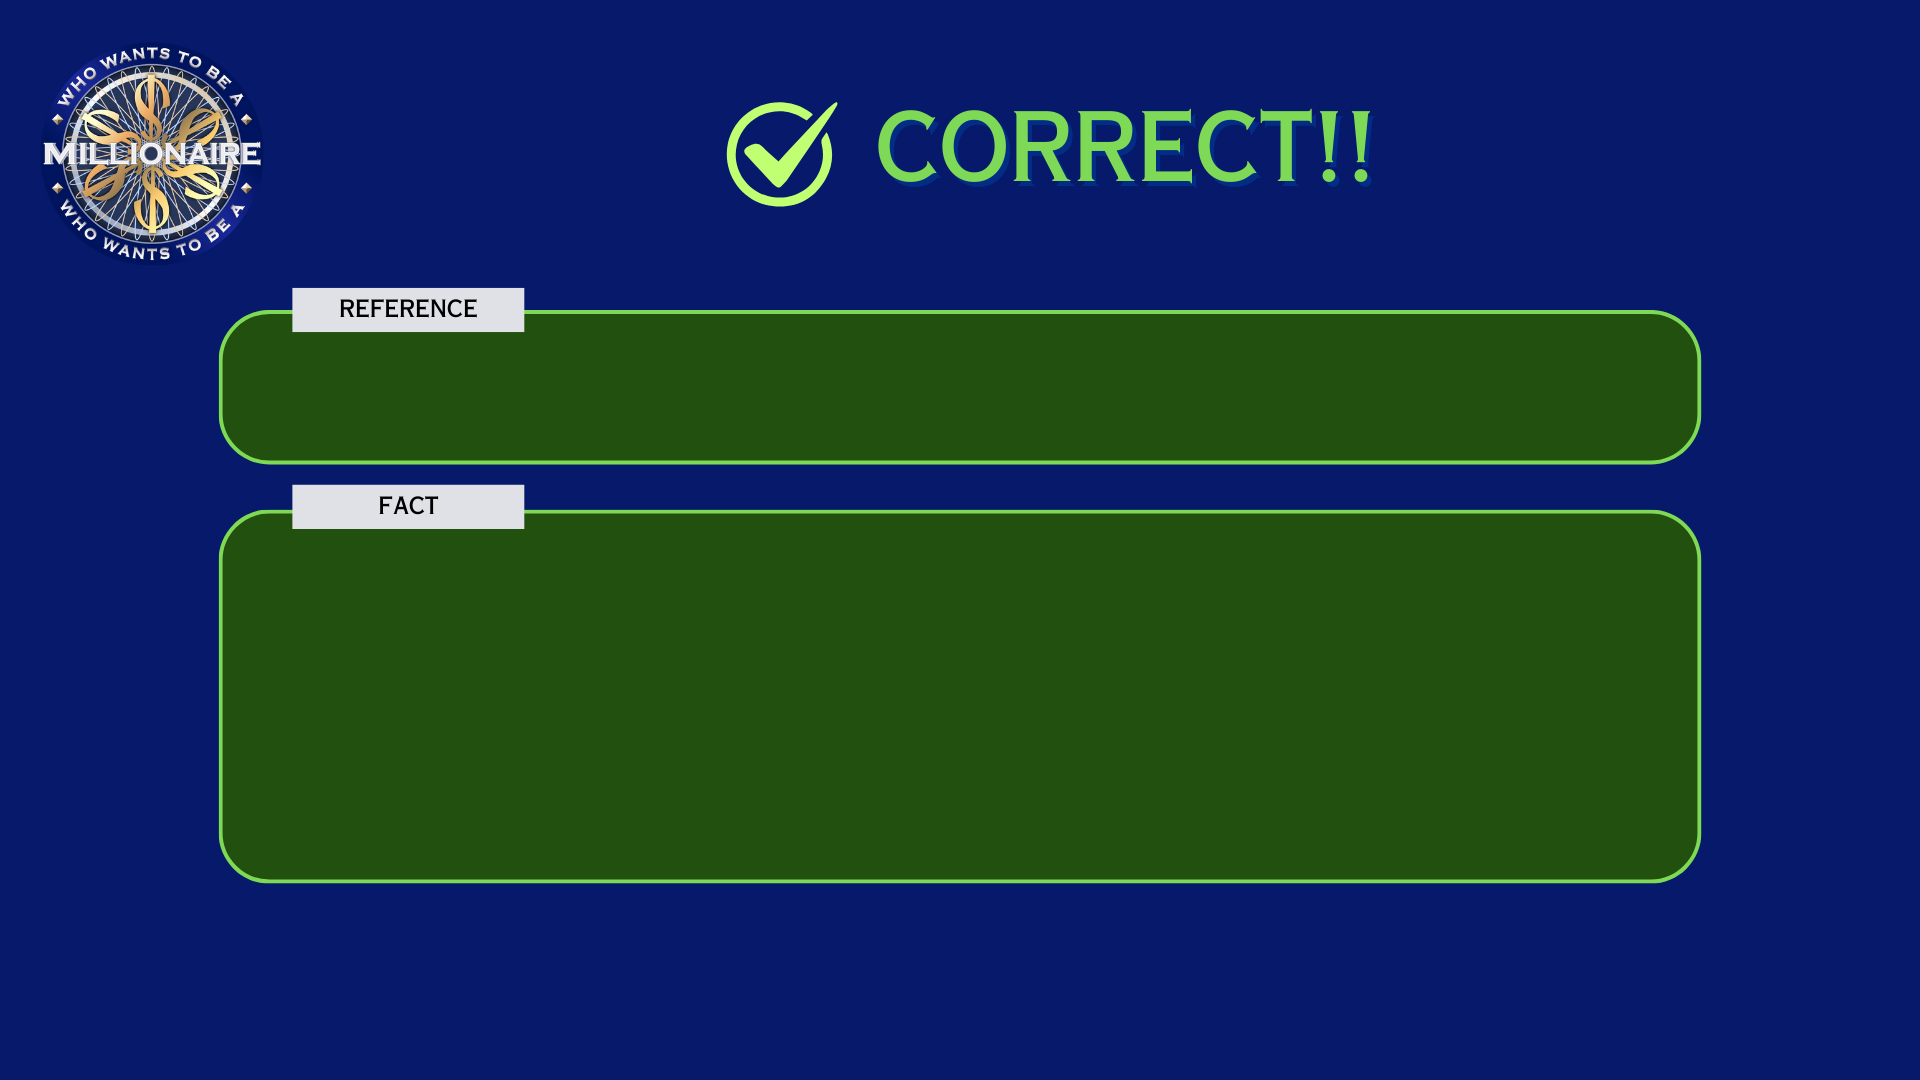
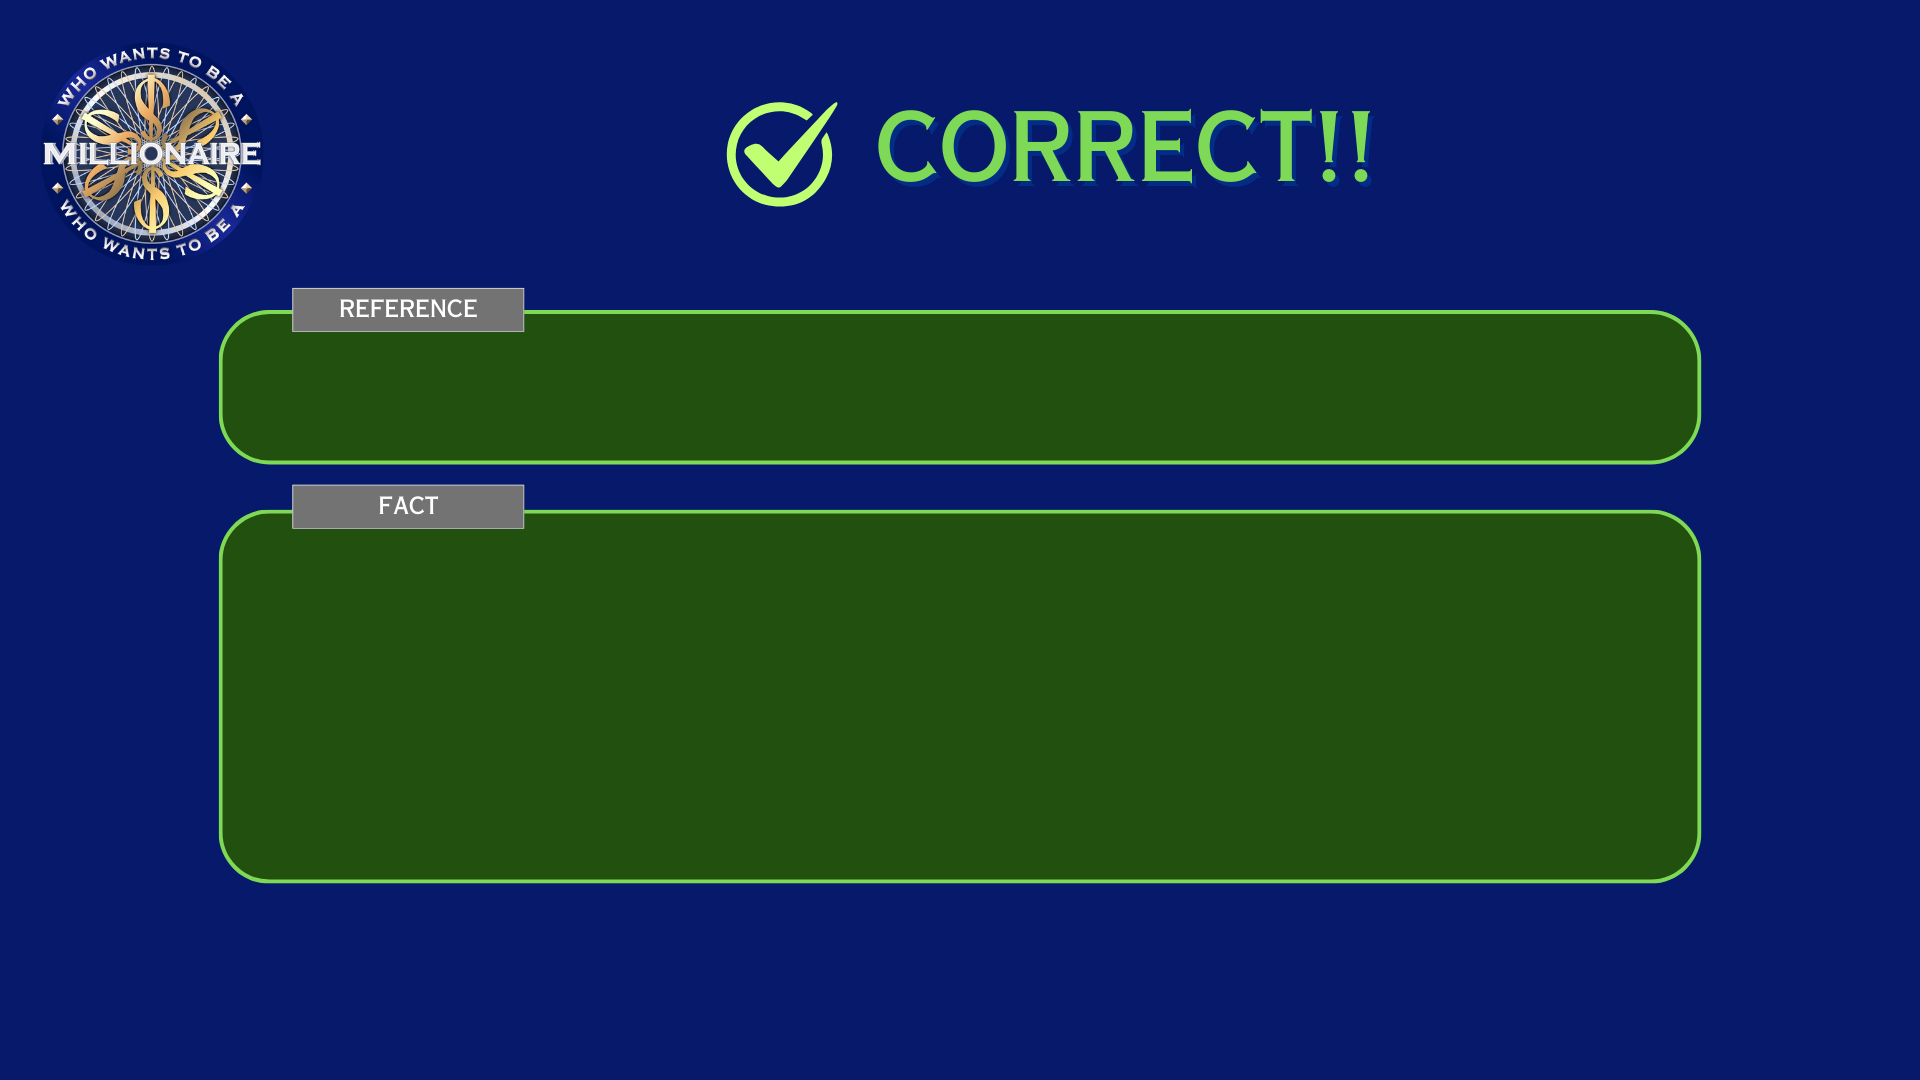
fact & thanks page

Changed region(s): [[0.125, 0.4278, 0.2812, 0.4889], [0.125, 0.2444, 0.2812, 0.3056]]

diff --git a/src/app/thank-you/page.tsx b/src/app/thank-you/page.tsx
@@ -8,13 +8,7 @@ import { LeaderBoards } from "@/lib/model";
 
 export default function ThankYou() {
   const router = useRouter();
-
-  useEffect(() => {
-    updateLeaderBoard();
-    setTimeout(() => {
-      router.push("/home");
-    }, 3000);
-  }, []);
+  const game = getGame();
 
   const updateLeaderBoard = async () => {
     const response = await fetch("/api/leaderboard");
@@ -23,32 +17,47 @@ export default function ThankYou() {
     }
 
     const leaderboards: LeaderBoards = await response.json();
+    if (game) {
+      addToLeaderBoard(leaderboards, game);
 
-    const game = getGame();
-    if (!game) return;
-
-    addToLeaderBoard(leaderboards, game);
-
-    console.log("game", game);
-    if (game.maxCompletedLevel === 0) {
-      setTimeout(() => {
-        router.push("/home");
-      }, 3000);
-    } else {
-      const response = await fetch("/api/leaderboard", {
-        method: "POST",
-        headers: {
-          "Content-type": "application/json",
-        },
-        body: JSON.stringify(leaderboards),
-      });
+      // write to file.
+      if (game.maxCompletedLevel > 0) {
+        const response = await fetch("/api/leaderboard", {
+          method: "POST",
+          headers: {
+            "Content-type": "application/json",
+          },
+          body: JSON.stringify(leaderboards),
+        });
+      }
     }
   };
+
+  useEffect(() => {
+    updateLeaderBoard();
+  }, []);
+
+  function formatTime(time: number) {
+    return Math.round(time / 100) / 10;
+  } 
 
   return (
     <div className={styles["thank-you"]}>
       <h1>Thank you</h1>
-      <h3>Your score will be emailed to you shortly</h3>
+      <h3>{game?.playerName}</h3>
+      <table>
+        <tbody>
+          <tr>
+            <td>Levels cleared</td>
+            <td className="value">{game?.maxCompletedLevel}</td>
+          </tr>
+          <tr>
+            <td>Time taken</td>
+            <td className="value">{formatTime(game?.totalHighResTime ?? 0)} seconds</td>
+          </tr>
+        </tbody>
+      </table>
+      <button onClick={() => router.push("/home")}>Finish</button>
     </div>
   );
 }

diff --git a/src/app/game/fact/fact.module.scss b/src/app/game/fact/fact.module.scss
@@ -1,20 +1,61 @@
-.fact {
-  img {
-    position: relative;
-  }
-  
-  button {
-    position: absolute;
-    z-index: 999;
-    float: inline-start;
-    width: 200px;
+.fact :global { 
+  .fact-container {
+    display: flex;
+    flex-direction: column;
+    width: 1920px;
+    height: 1080px;
     font-family: "Copperplate Gothic Std 29 BC";
-    font-size: 2rem;
-    padding: 5px 20px;
-    background-color: #4caba5;
-    color: white;
-    border: none;
-    border-radius: 10px;
-    cursor: pointer;
+    align-items: center;
+  
+    &.wrong {
+      background-image: url('/wwbbm-wrong.png');
+    }
+
+    &.correct {
+      background-image: url('/wwbbm-correct.png');
+    }
+
+    &.timeout {
+      background-image: url('/wwbbm-timeout.png');
+    }
+
+    .reference {
+      position: absolute;
+      width: 1200px;
+      height: 120px;
+      top: 330px;
+      display: flex;
+      justify-content: center;
+      align-items: center;
+      font-size: 3rem;
+      color: white;
+    }
+
+    .fact-text {
+      position: absolute;
+      width: 1200px;
+      height: 300px;
+      top: 540px;
+      display: flex;
+      justify-content: center;
+      align-items: center;
+      font-size: 3rem;
+      color: white;
+    }
+
+    button {
+      position: relative;
+      top: 950px;
+      z-index: 999;
+      float: inline-start;
+      width: 250px;
+      font-size: 2.5rem;
+      padding: 10px 20px;
+      background-color: #4caba5;
+      color: white;
+      border: none;
+      border-radius: 10px;
+      cursor: pointer;
+    }
   }
 }

diff --git a/src/app/game/question-display/page.tsx b/src/app/game/question-display/page.tsx
@@ -33,9 +33,8 @@ export default function QuestionDisplay({
 
   // this is to prevent the user from selecting another option after the answer is locked
   const [isLocked, setIsLocked] = useState(false);
-  const router = useRouter();
 
-  const handleAnswer = (index: number) => {
+  const handleSelection = (index: number) => {
     if (isLocked) {
       return;
     }
@@ -79,7 +78,7 @@ export default function QuestionDisplay({
           <div
             className={`answer ${assignClassName(index)}`}
             key={index}
-            onClick={() => handleAnswer(index)}
+            onClick={() => handleSelection(index)}
           >
             <p>
               {String.fromCharCode(65 + index)}: {option}

diff --git a/src/app/game/fact/page.tsx b/src/app/game/fact/page.tsx
@@ -6,9 +6,15 @@ export default function Fact({ gameState, nextCallback, answerState }: { gameSta
 
   return (
     <div className={styles["fact"]}>
-      <p>answer: {answerState}</p>
-      <p>{gameState.questions[gameState.gameLevel - 1].question}</p>
-      <button onClick={nextCallback}>Next</button>
+      <div className={`fact-container ${answerState}`}>  
+        <div className="reference">
+          {gameState.questions[gameState.gameLevel - 1].reference}
+        </div>
+        <div className="fact-text">
+          {gameState.questions[gameState.gameLevel - 1].fact}
+        </div>
+        <button onClick={nextCallback}>Next</button>
+      </div>
     </div>
   );
 }

diff --git a/src/app/game/page.tsx b/src/app/game/page.tsx
@@ -59,6 +59,7 @@ export default function Game() {
       if (timerValue > 0) {
         timeoutId = window.setTimeout(tick, 1000);
       } else {
+        stopAudio();
         setAnswerState('timeout');
         setShowingFact(true);
       }
@@ -76,7 +77,8 @@ export default function Game() {
 
   function handleFactNext() {
     console.log('answer state', answerState);
-    if (answerState === 'wrong' || answerState === 'timeout') {
+  
+    if (answerState === 'wrong' || answerState === 'timeout' || gameState?.gameLevel === 5) {
       // we don't move on to the next question
       router.push('/thank-you');
       return;

diff --git a/src/app/thank-you/thank-you.module.scss b/src/app/thank-you/thank-you.module.scss
@@ -16,6 +16,35 @@
 
   h3 {
     font-size: 2rem;
+    color: #e4debc;
+  }
+
+  table {
+    font-size: 2rem;
+
+    td {
+      background-color: #13524d;
+      padding: 10px 20px;
+    }
+
+    .value {
+      font-weight: bold;
+      text-align: right;
+      padding-left: 40px;
+    }
+  }
+
+  button {
+    position: relative;
+    top: 100px;
+    width: 250px;
+    font-size: 2rem;
+    padding: 10px 20px;
+    background-color: #4caba5;
+    color: white;
+    border: none;
+    border-radius: 10px;
+    cursor: pointer;
   }
 }
 

diff --git a/src/lib/client/game-service.ts b/src/lib/client/game-service.ts
@@ -42,6 +42,11 @@ export function endGame() {
   currentGame = null;
 }
 
+/**
+ * Add to leaderboard in-place.
+ * @param leaderboards 
+ * @param gameState 
+ */
 export function addToLeaderBoard(leaderboards: LeaderBoards, gameState: GameState) {
   let leaderBoard = leaderboards[gameState.playerLevel];
   leaderBoard.push({
